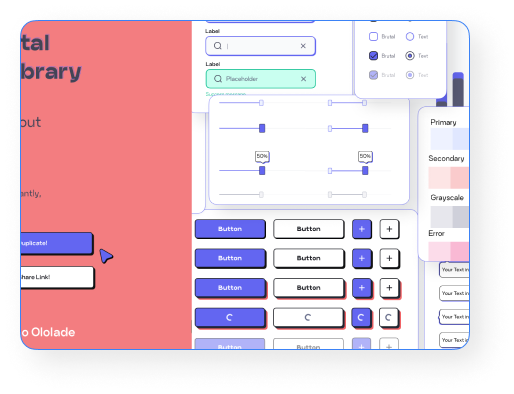
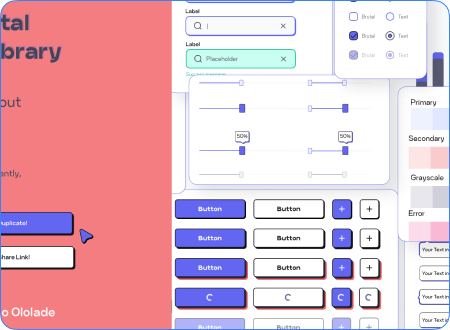
end of portfolio page + design fix
added custom transition between routes

diff --git a/src/styles/portfolio.scss b/src/styles/portfolio.scss
@@ -1,24 +1,34 @@
+.projects {
+  background: url("../assets/bg-inner.png") top center repeat-y;
+}
 .projects-inner {
   display: flex;
   flex-direction: column;
   overflow: hidden;
   justify-content: center;
   max-width: 1030px;
+  @media (max-width: $mobile) {
+    justify-content: flex-start;
+  }
   margin: 0 auto;
   &__title {
     font-style: normal;
     font-weight: 700;
-    font-size: 64px;
+    @include adaptiveValue("font-size", 64, 32);
     line-height: 98px;
     color: $textColor;
     margin-top: 48px;
+    @media (max-width: $mobile) {
+      margin-top: 0;
+    }
   }
 
   &__descr {
     font-style: normal;
     font-weight: 300;
-    font-size: 24px;
-    line-height: 37px;
+    @include adaptiveValue("font-size", 24, 16);
+    width: 85%;
+    line-height: 24px;
     color: $textColor;
   }
 
@@ -30,16 +40,35 @@
   }
 
   &__list-item {
+    margin-top: 20px;
     display: flex;
-    gap: 48px;
+    @include adaptiveValue("gap", 48, 0);
     align-items: center;
     justify-content: space-around;
+
+    flex-shrink: 1;
+    @media (max-width: $mobile) {
+      flex-direction: column-reverse;
+      align-items: flex-start;
+    }
+  }
+}
+.reversed {
+  display: flex;
+  @include adaptiveValue("gap", 48, 0);
+  align-items: center;
+  justify-content: space-around;
+  flex-direction: row-reverse;
+  flex-shrink: 1;
+  @media (max-width: $mobile) {
+    flex-direction: column-reverse;
+    align-items: flex-start;
   }
 }
 .list-item {
   &__block {
-    margin-top: 64px;
-    margin-bottom: 48px;
+    @include adaptiveValue("margin-top", 64, 0);
+    @include adaptiveValue("margin-bottom", 48, 0);
   }
 }
 .list-block {
@@ -47,6 +76,7 @@
     font-style: normal;
     font-weight: 700;
     font-size: 40px;
+    @include adaptiveValue("font-size", 40, 28);
     line-height: 71px;
     color: $textColor;
   }
@@ -56,21 +86,30 @@
     font-weight: 300;
     font-size: 16px;
     line-height: 24px;
-    margin-top: 24px;
+    @include adaptiveValue("margin-top", 24, 16);
     color: $textColor;
   }
 
   &__button {
-    margin-top: 56px;
+    @include adaptiveValue("margin-top", 56, 40);
   }
 
   &__image {
     width: 430px;
     height: 320px;
+    @include adaptiveValue("width", 430, 309);
+    @include adaptiveValue("height", 320, 200);
     img {
-      object-fit: cover;
+      display: block;
+      // object-fit: cover;
       width: 100%;
       height: 100%;
+    }
+    @media (max-width: $mobile) {
+      margin-top: 46px;
+      // width: 305px !important;
+      // height: 200px !important;
+      width: 100%;
     }
   }
 }

diff --git a/src/styles/home.scss b/src/styles/home.scss
@@ -4,24 +4,25 @@ body {
   height: max-content;
 }
 .hero {
-  &::before {
-    position: absolute;
-    top: 0;
-    left: 0;
-    bottom: 0;
-    right: 0;
-    background: url("../assets/undraw_my_personal_files_re_3q0p.svg") no-repeat
-      right;
-    background-position: 900px 200px;
-    @media (max-width: $mobile) {
-      background-position: 100px 200px;
-    }
-    opacity: 0.05;
-    content: "";
-    z-index: -1;
-  }
   &__container {
+    position: relative;
     background: url("../assets/bg-inner.png") center center/cover no-repeat;
+    &::before {
+      position: absolute;
+      top: 0;
+      left: 0;
+      bottom: 0;
+      right: 0;
+      background: url("../assets/undraw_my_personal_files_re_3q0p.svg")
+        no-repeat right;
+      background-position: 700px 200px;
+      @media (max-width: $mobile) {
+        background-position: 100px 200px;
+      }
+      opacity: 0.05;
+      content: "";
+      z-index: -1;
+    }
   }
 
   &__logo {
@@ -81,6 +82,17 @@ body {
   &__content-button {
     margin-top: 119px;
     @include adaptiveValue(" margin-top", 119, 64);
+  }
+}
+
+.canvas {
+  position: absolute;
+  @media (min-width: $tablet) {
+    @include adaptiveValue("right", 540, 200);
+    @include adaptiveValue("top", 260, 60);
+  }
+  @media (max-width: $tablet) {
+    display: none;
   }
 }
 

diff --git a/src/components/appCanvas.vue b/src/components/appCanvas.vue
@@ -1,0 +1,51 @@
+<template>
+  <div class="" ref="canvas"></div>
+</template>
+
+<script>
+import * as THREE from "three";
+export default {
+  name: "TheCanvas",
+  data: function () {
+    return {};
+  },
+  methods: {
+    init() {
+      const scene = new THREE.Scene();
+      const camera = new THREE.PerspectiveCamera(50, 200 / 200, 0.1, 1000);
+      const renderer = new THREE.WebGLRenderer({ alpha: true });
+      renderer.setClearColor(0x000000, 0);
+      const light = new THREE.DirectionalLight("hsl(0, 100%, 100%)");
+      const geometry = new THREE.OctahedronGeometry(1, 0);
+      const material = new THREE.MeshStandardMaterial({
+        side: THREE.FrontSide,
+        color: "#5d5fef",
+        wireframe: false,
+      });
+      const cube = new THREE.Mesh(geometry, material);
+      scene.add(camera);
+      scene.add(light);
+      scene.add(cube);
+      renderer.setSize(200, 200);
+      light.position.set(0, 0, 10);
+      camera.position.z = 5;
+      this.$refs.canvas.appendChild(renderer.domElement);
+      function animate() {
+        requestAnimationFrame(animate);
+        renderer.render(scene, camera);
+        cube.rotation.y += 0.01;
+      }
+      animate();
+    },
+  },
+  mounted() {
+    this.init();
+  },
+};
+</script>
+<style>
+canvas {
+  width: 100vw;
+  height: 100vh;
+}
+</style>

diff --git a/src/views/portfolio.vue b/src/views/portfolio.vue
@@ -30,6 +30,28 @@
               </div>
             </div>
           </div>
+          <div class="projects-inner__list-item list-item reversed">
+            <div class="list-item__block list-block">
+              <div class="list-block__title">
+                <a href=""> Brutal Design Library </a>
+              </div>
+              <div class="list-block__descr">
+                Brutal is a remote friendly-company — with our headquarters in
+                San Francisco, a second office in LA, and a strong commitment to
+                ensuring people can do great work here and thrive without having
+                to live near an office. This role is open to candidates across
+                the U.S.
+              </div>
+              <div class="list-block__button">
+                <app-button>View project</app-button>
+              </div>
+            </div>
+            <div class="list-item__block list-block">
+              <div class="list-block__image">
+                <img src="../assets/page-2.png" alt="" />
+              </div>
+            </div>
+          </div>
         </div>
       </div>
     </div>

diff --git a/src/components/appMenu.vue b/src/components/appMenu.vue
@@ -1,17 +1,17 @@
 <template>
   <div class="menu">
     <div class="menu__inner">
-      <router-link to="/">
+      <router-link to="/" @click.native="scrollToTop">
         <button class="menu-icon">
           <img src="../assets/icons/1.png" alt="" />
         </button>
       </router-link>
-      <router-link to="/portfolio">
+      <router-link to="/portfolio" @click.native="scrollToTop">
         <button class="menu-icon">
           <img src="../assets/icons/2.png" alt="" />
         </button>
       </router-link>
-      <router-link to="/about">
+      <router-link to="/about" @click.native="scrollToTop">
         <button class="menu-icon">
           <img src="../assets/icons/3.png" alt="" />
         </button>
@@ -38,6 +38,11 @@
 <script>
 export default {
   name: "appMenu",
+  methods: {
+    scrollToTop() {
+      window.scrollTo(0, 0);
+    },
+  },
 };
 </script>
 

diff --git a/src/App.vue b/src/App.vue
@@ -1,24 +1,28 @@
 <template>
-  <app-bubbles></app-bubbles>
-  <router-view />
-  <!-- App Menu-->
+  <app-bubbles v-if="this.$route.name == 'home'"></app-bubbles>
+  <transition name="scale" mode="out-in">
+    <router-view />
+  </transition>
   <app-menu></app-menu>
 </template>
 <script>
-import appMenu from "./components/appMenu.vue";
-import appBubbles from "./components/appBubbles.vue";
 export default {
   name: "app",
-  components: {
-    appMenu,
-    appBubbles,
-  },
-  mounted() {},
 };
 </script>
 <style lang="scss">
 #app {
   position: relative;
   min-height: 100vh;
+}
+.scale-enter-active,
+.scale-leave-active {
+  transition: all 0.8s ease;
+}
+
+.scale-enter-from,
+.scale-leave-to {
+  opacity: 0;
+  transform: scale(0.9);
 }
 </style>

diff --git a/src/components/main.js b/src/components/main.js
@@ -1,11 +1,7 @@
-import appBubbles from './appBubbles';
-import appMenu from './appMenu';
-import appButton from './appButton';
-import appLogo from'./appLogo';
+import appBubbles from "./appBubbles";
+import appMenu from "./appMenu";
+import appButton from "./appButton";
+import appLogo from "./appLogo";
+import appCanvas from "./appCanvas";
 
-export default [
-    appBubbles,
-    appMenu,
-    appButton,
-    appLogo   
-]
+export default [appBubbles, appMenu, appButton, appLogo, appCanvas];

diff --git a/src/views/home.vue b/src/views/home.vue
@@ -4,6 +4,7 @@
     <div class="hero__container">
       <app-logo></app-logo>
       <div class="hero__content">
+        <app-canvas class="canvas"></app-canvas>
         <div class="hero__content-title">
           Hello!👋🏻 <br />
           My name is Kirill <br />
@@ -22,7 +23,13 @@
 </template>
 
 <script>
+import appCanvas from "../components/appCanvas.vue";
 export default {
   name: "home",
+  components: {
+    appCanvas,
+  },
 };
 </script>
+
+<style></style>

diff --git a/src/router/index.js b/src/router/index.js
@@ -11,6 +11,9 @@ const routes = [
     path: "/portfolio",
     name: "portfolio",
     component: () => import("../views/portfolio.vue"),
+    meta: {
+      transition: "fade",
+    },
   },
   {
     path: "/about",
